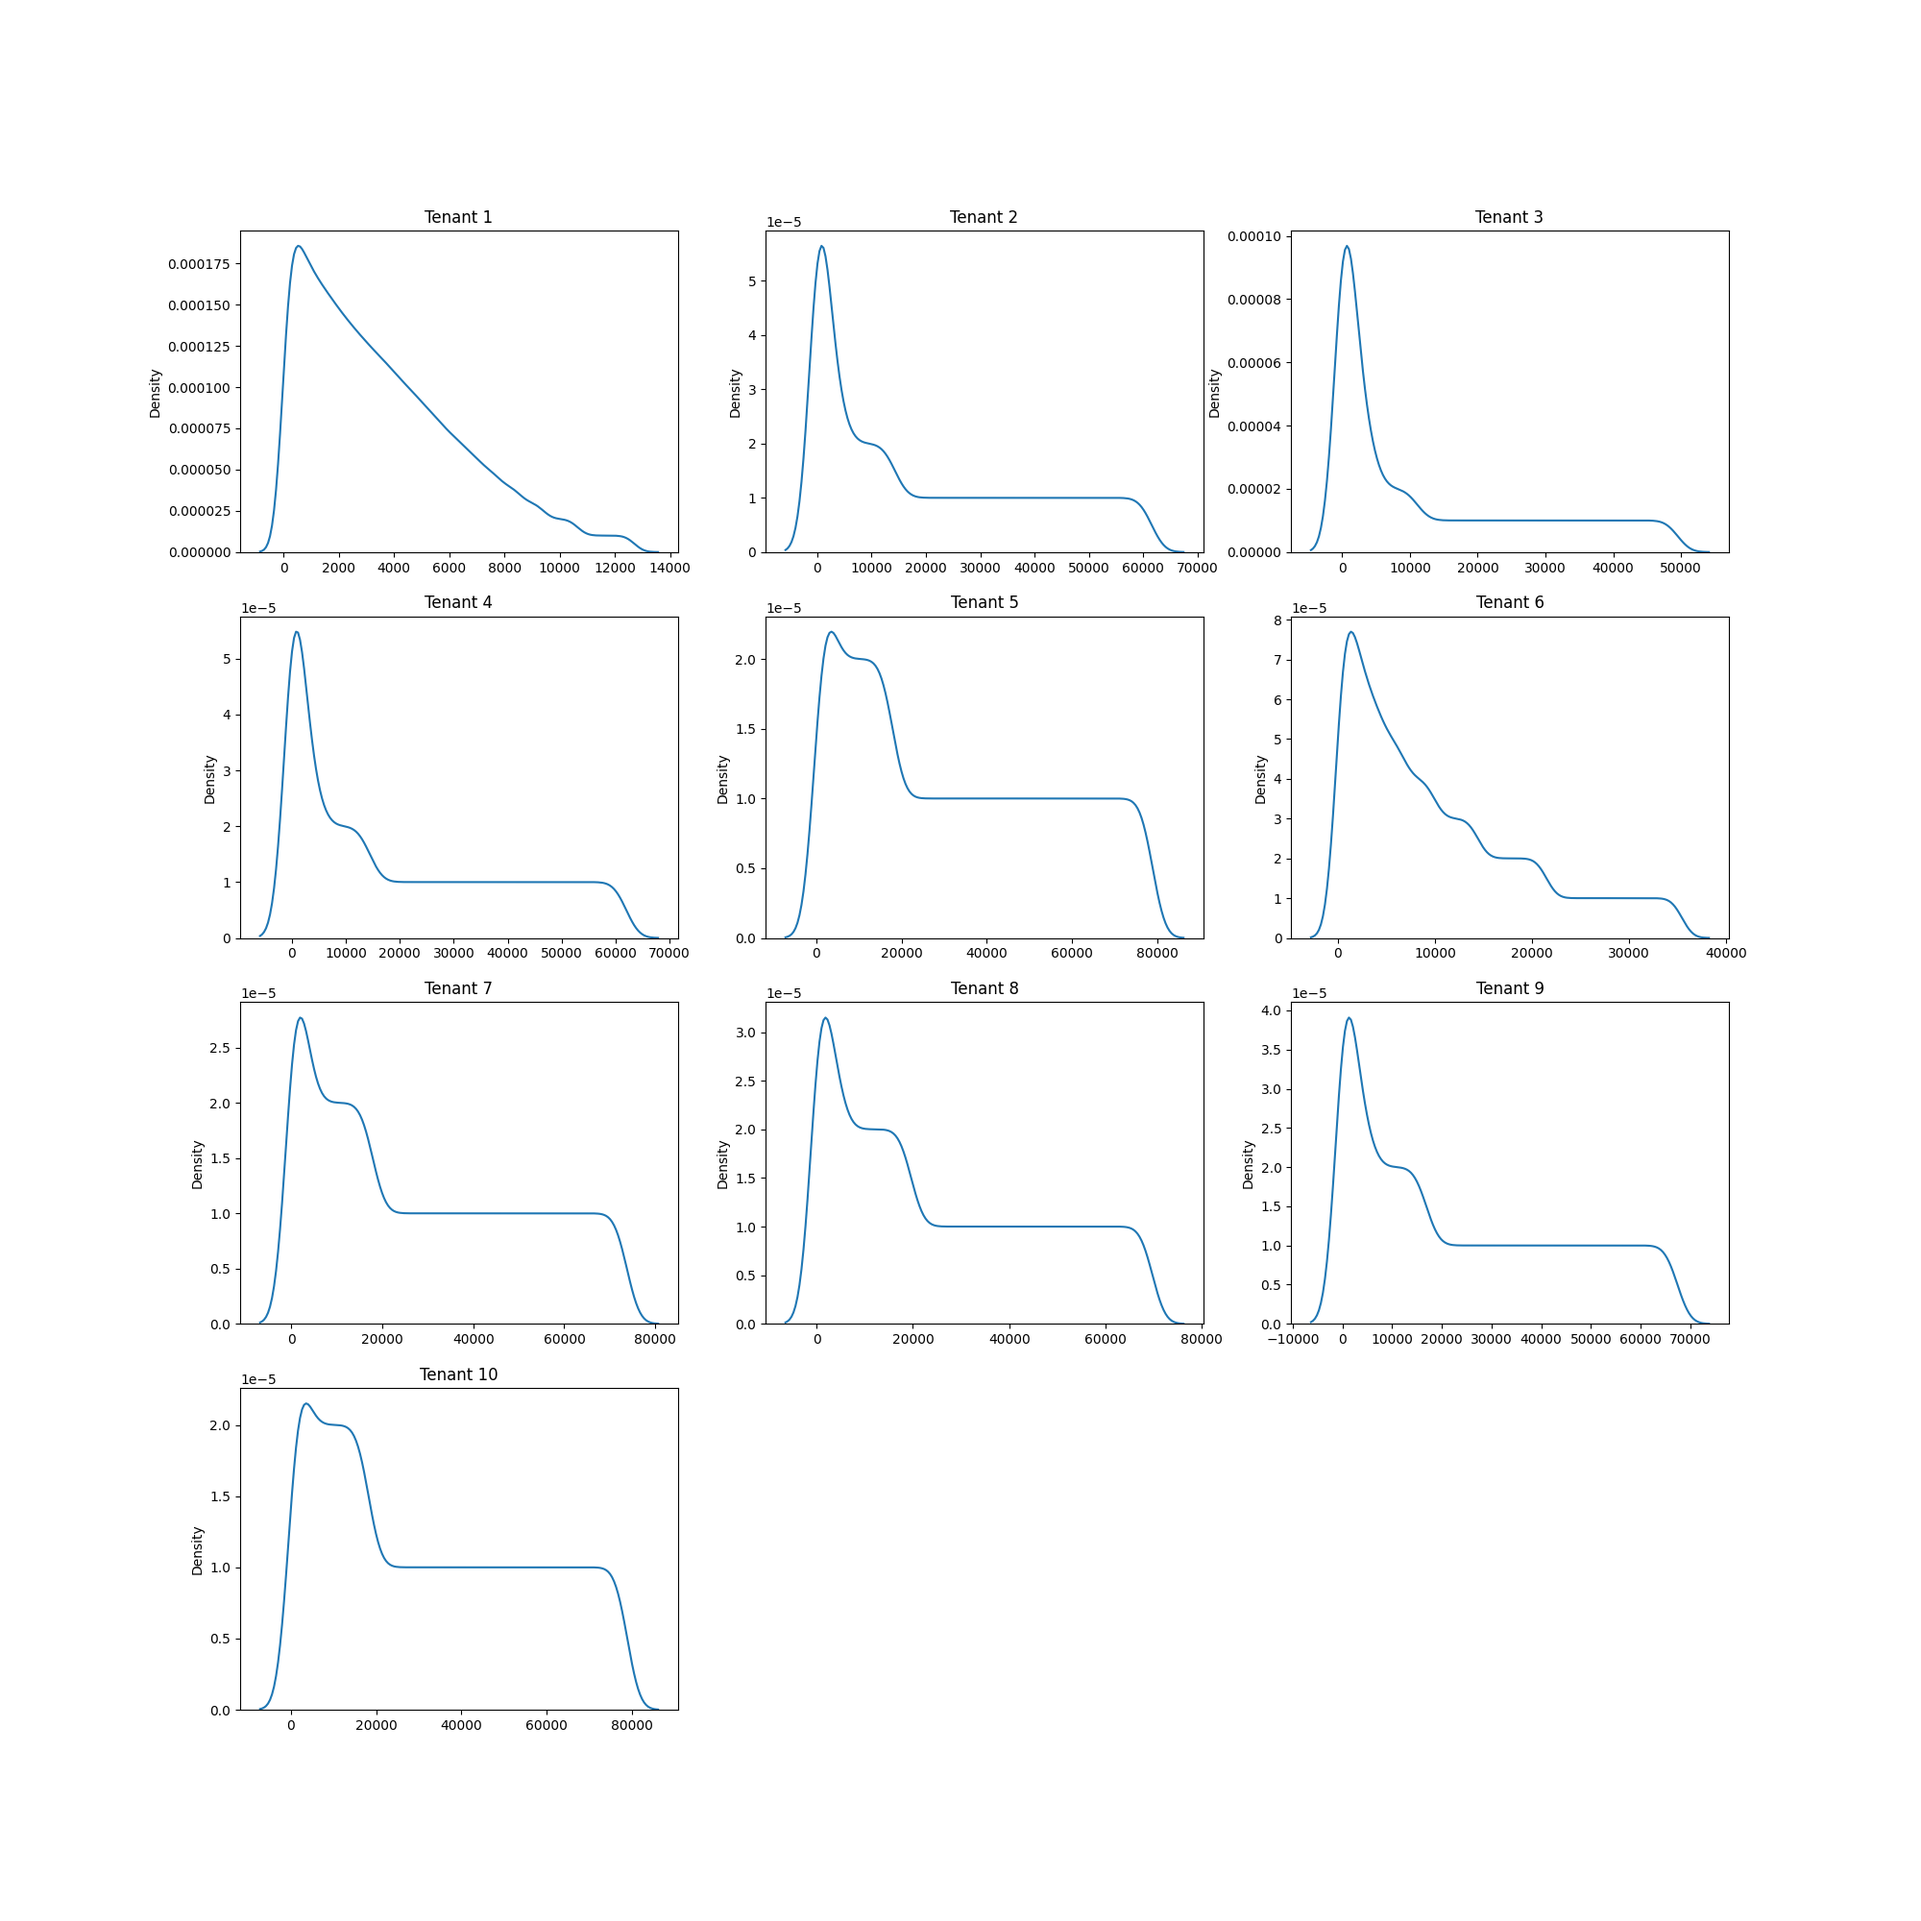
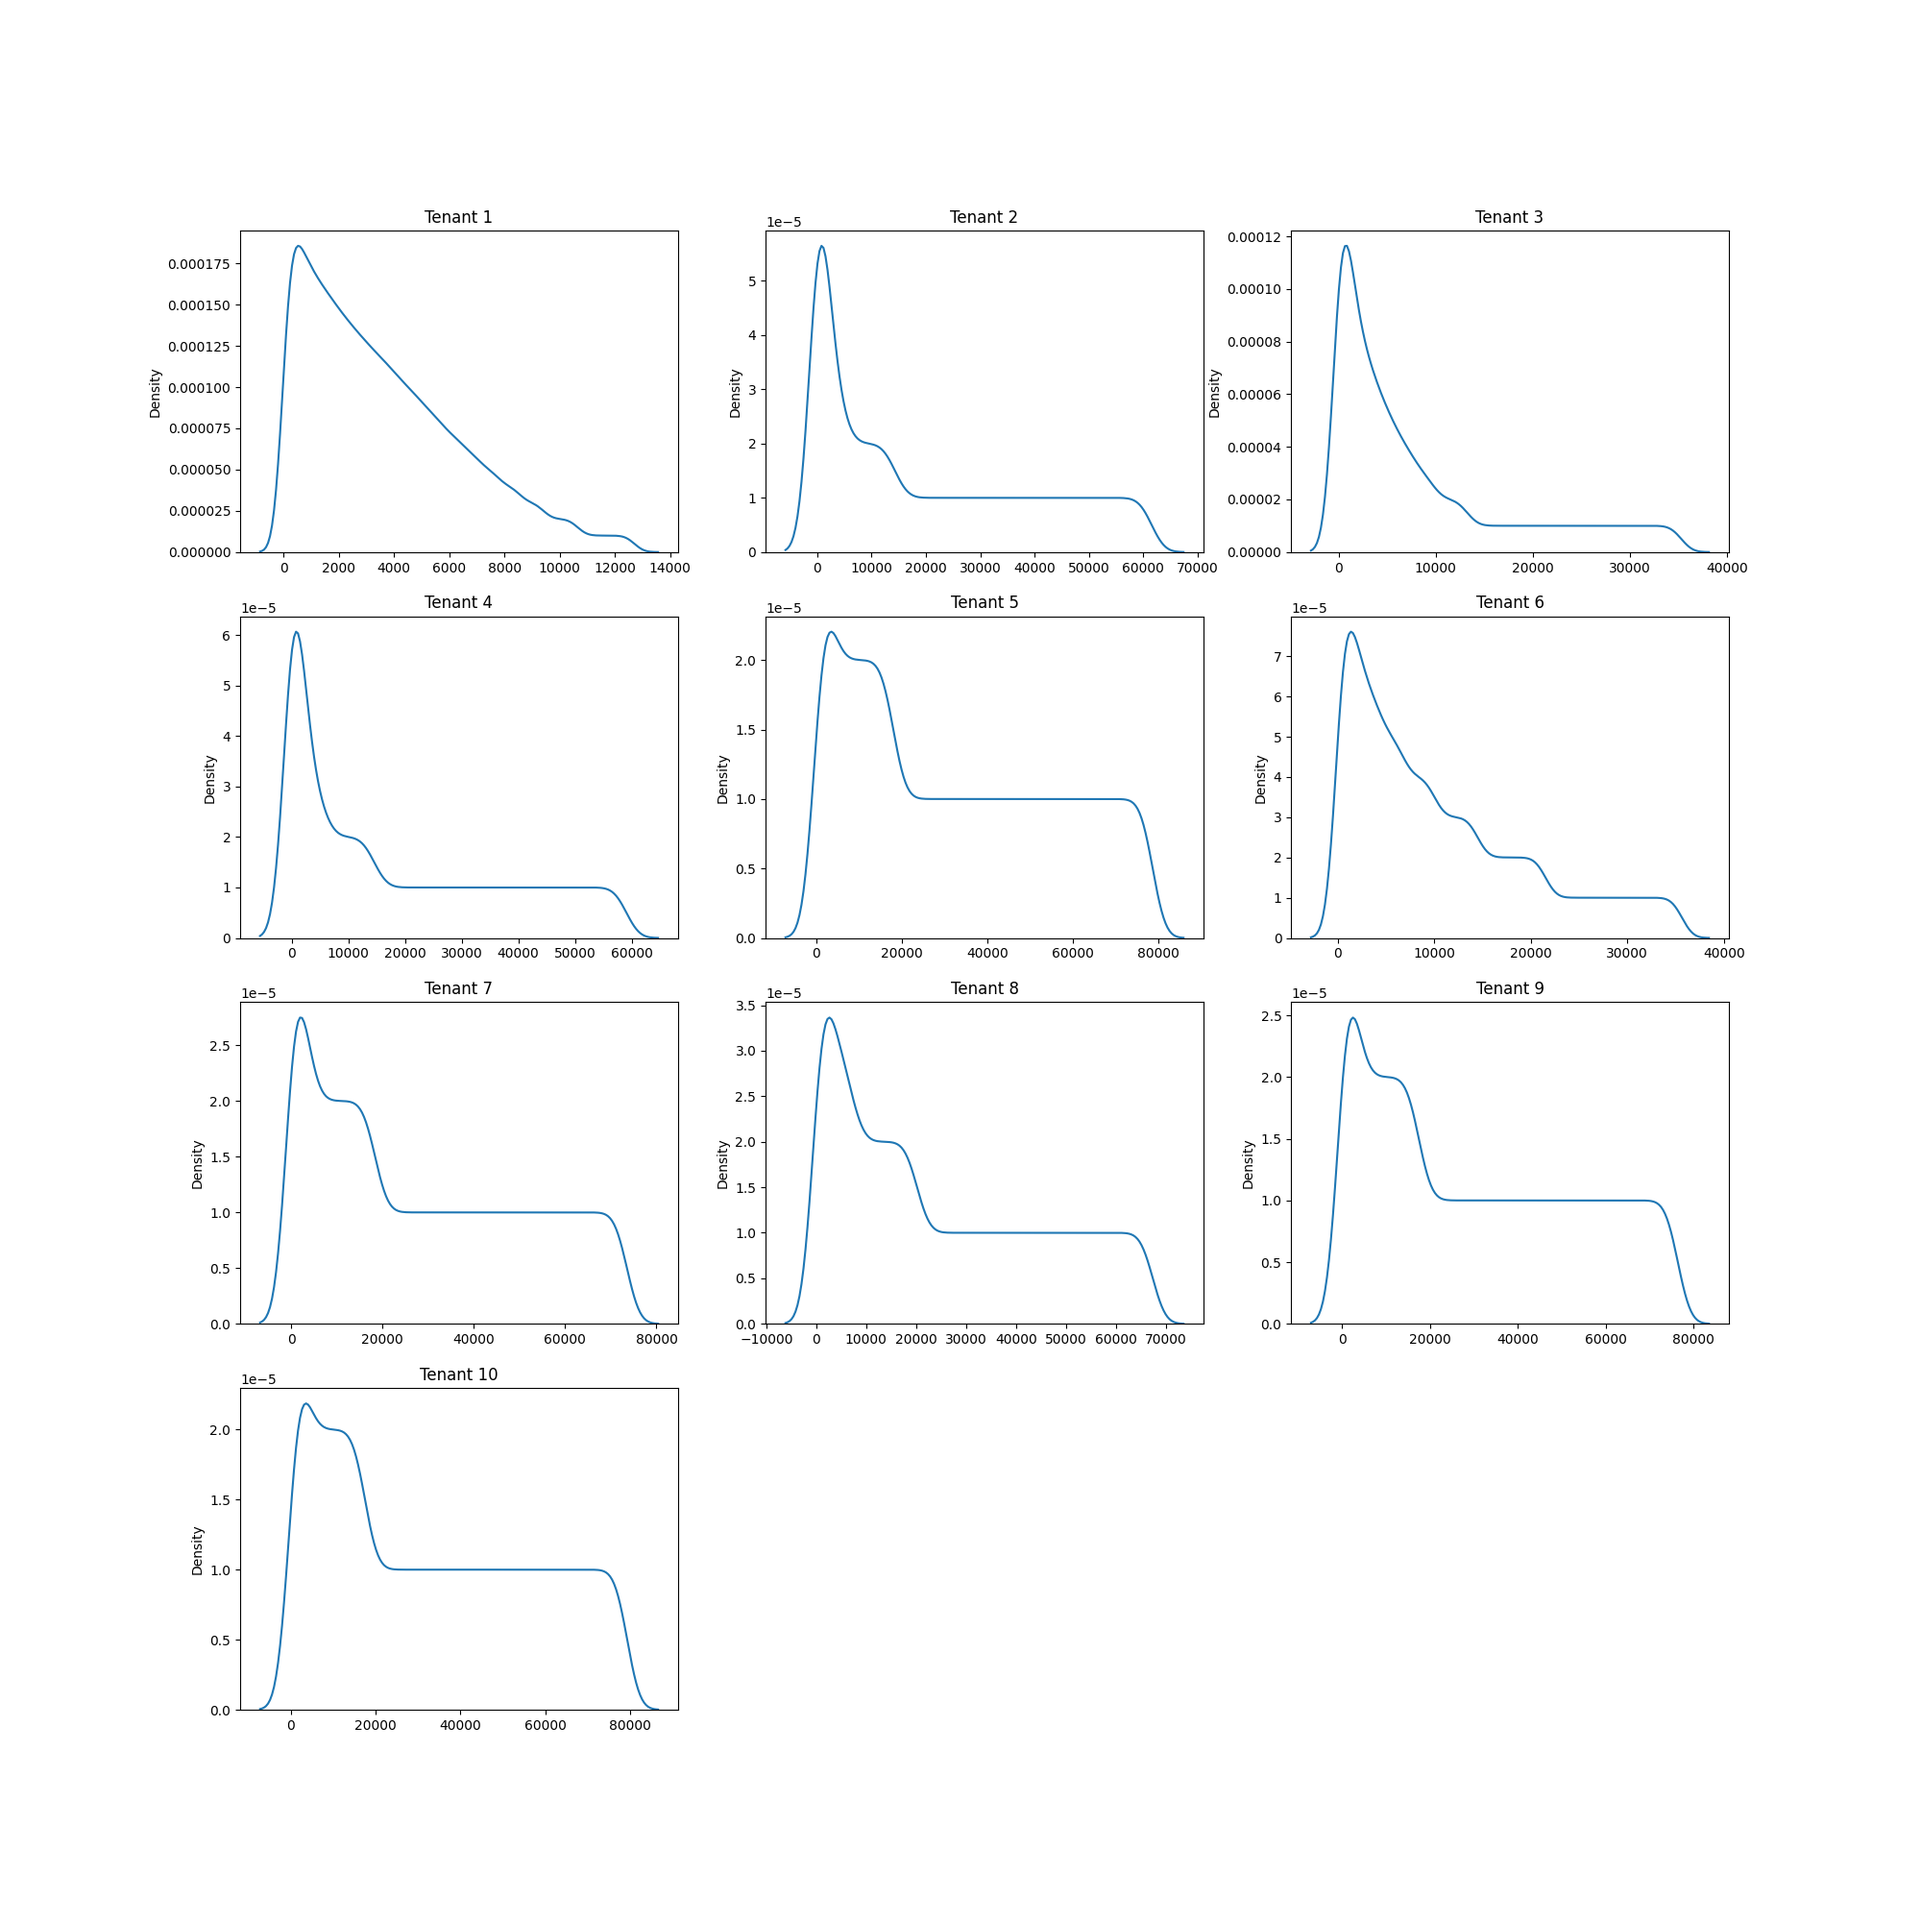
feat/modify-test-7

diff --git a/test_cases/test_case_7/description.py b/test_cases/test_case_7/description.py
@@ -9,17 +9,16 @@ tenants = [
         'minimum_buffer_size': 1,
         'base_buffer_size': 2000,
         'maximum_buffer_size': 20000,
-        'page_accesses_dist': {
+        'page_accesses_dist': [
+          {
             'type': 'normal',
             'variance': 5000,
             'length': 100000,
-        },
+            'interval_type': 'uniform',
+            'interval_max_value': 1,
+          },
+        ],
         'pages_should_be_renumbered': False,
-        'page_accesses_interval_dist': {
-            'type': 'uniform',
-            'length': 100000,
-            'max_value': 1,
-        },
     },
     {
         'tenant_id': 2,
@@ -28,17 +27,16 @@ tenants = [
         'minimum_buffer_size': 1,
         'base_buffer_size': 2000,
         'maximum_buffer_size': 20000,
-        'page_accesses_dist': {
+        'page_accesses_dist': [
+          {
             'type': 'zipfian',
             'parameter': 1.01,
             'length': 100000,
-        },
+            'interval_type': 'uniform',
+            'interval_max_value': 1,
+          },
+        ],
         'pages_should_be_renumbered': False,
-        'page_accesses_interval_dist': {
-            'type': 'uniform',
-            'length': 100000,
-            'max_value': 1,
-        },
     },
     {
         'tenant_id': 3,
@@ -47,17 +45,23 @@ tenants = [
         'minimum_buffer_size': 1,
         'base_buffer_size': 2000,
         'maximum_buffer_size': 20000,
-        'page_accesses_dist': {
+        'page_accesses_dist': [
+          {
             'type': 'pareto',
             'parameter': 0.04,
-            'length': 100000,
-        },
+            'length': 50000,
+            'interval_type': 'uniform',
+            'interval_max_value': 1,
+          },
+          {
+            'type': 'normal',
+            'variance': 5000,
+            'length': 50000,
+            'interval_type': 'uniform',
+            'interval_max_value': 1,
+          },
+        ],
         'pages_should_be_renumbered': False,
-        'page_accesses_interval_dist': {
-            'type': 'uniform',
-            'length': 100000,
-            'max_value': 1,
-        },
     },
     {
         'tenant_id': 4,
@@ -66,17 +70,23 @@ tenants = [
         'minimum_buffer_size': 1,
         'base_buffer_size': 2000,
         'maximum_buffer_size': 20000,
-        'page_accesses_dist': {
+        'page_accesses_dist': [
+          {
             'type': 'zipfian',
             'parameter': 1.005,
-            'length': 100000,
-        },
-        'pages_should_be_renumbered': False,
-        'page_accesses_interval_dist': {
-            'type': 'uniform',
-            'length': 100000,
-            'max_value': 1,
-        },
+            'length': 50000,
+            'interval_type': 'uniform',
+            'interval_max_value': 1,
+          },
+          {
+            'type': 'pareto',
+            'parameter': 0.04,
+            'length': 50000,
+            'interval_type': 'uniform',
+            'interval_max_value': 1,
+          }
+        ],
+        'pages_should_be_renumbered': True,
     },
     {
         'tenant_id': 5,
@@ -85,16 +95,15 @@ tenants = [
         'minimum_buffer_size': 1,
         'base_buffer_size': 2000,
         'maximum_buffer_size': 20000,
-        'page_accesses_dist': {
+        'page_accesses_dist': [
+          {
             'type': 'uniform',
             'length': 100000,
-        },
+            'interval_type': 'uniform',
+            'interval_max_value': 1,
+          },
+        ],
         'pages_should_be_renumbered': False,
-        'page_accesses_interval_dist': {
-            'type': 'uniform',
-            'length': 100000,
-            'max_value': 1,
-        },
     },
     {
         'tenant_id': 6,
@@ -103,18 +112,17 @@ tenants = [
         'minimum_buffer_size': 1,
         'base_buffer_size': 2000,
         'maximum_buffer_size': 20000,
-        'page_accesses_dist': {
+        'page_accesses_dist': [
+          {
             'type': 'normal',
             'variance': 3000,
             'length': 100000,
-        },
+            'interval_type': 'normal',
+            'interval_variance': 4,
+            'interval_max_value': 100,
+          },
+        ],
         'pages_should_be_renumbered': True,
-        'page_accesses_interval_dist': {
-            'type': 'normal',
-            'variance': 4,
-            'max_value': 100,
-            'length': 100000,
-        },
     },
     {
         'tenant_id': 7,
@@ -123,18 +131,17 @@ tenants = [
         'minimum_buffer_size': 1,
         'base_buffer_size': 2000,
         'maximum_buffer_size': 20000,
-        'page_accesses_dist': {
+        'page_accesses_dist': [
+          {
             'type': 'zipfian',
             'parameter': 1.01,
             'length': 100000,
-        },
+            'interval_type': 'zipfian',
+            'interval_parameter': 2,
+            'interval_max_value': 200000,
+          },
+        ],
         'pages_should_be_renumbered': True,
-        'page_accesses_interval_dist': {
-            'type': 'zipfian',
-            'parameter': 2,
-            'max_value': 200000,
-            'length': 100000,
-        },
     },
     {
         'tenant_id': 8,
@@ -143,18 +150,25 @@ tenants = [
         'minimum_buffer_size': 1,
         'base_buffer_size': 2000,
         'maximum_buffer_size': 20000,
-        'page_accesses_dist': {
+        'page_accesses_dist': [
+          {
             'type': 'pareto',
             'parameter': 0.04,
-            'length': 100000,
-        },
+            'length': 50000,
+            'interval_type': 'pareto',
+            'interval_parameter': 1,
+            'interval_max_value': 10000,
+          },
+          {
+            'type': 'normal',
+            'variance': 5000,
+            'length': 50000,
+            'interval_type': 'normal',
+            'interval_variance': 4,
+            'interval_max_value': 100,
+          }
+        ],
         'pages_should_be_renumbered': True,
-        'page_accesses_interval_dist': {
-            'type': 'pareto',
-            'parameter': 1,
-            'max_value': 10000,
-            'length': 100000,
-        },
     },
     {
         'tenant_id': 9,
@@ -163,18 +177,25 @@ tenants = [
         'minimum_buffer_size': 1,
         'base_buffer_size': 2000,
         'maximum_buffer_size': 20000,
-        'page_accesses_dist': {
+        'page_accesses_dist': [
+          {
             'type': 'zipfian',
             'parameter': 1.005,
-            'length': 100000,
-        },
-        'pages_should_be_renumbered': False,
-        'page_accesses_interval_dist': {
-            'type': 'zipfian',
-            'parameter': 2,
-            'max_value': 200000,
-            'length': 100000,
-        },
+            'length': 50000,
+            'interval_type': 'zipfian',
+            'interval_parameter': 2,
+            'interval_max_value': 200000,
+          },
+          {
+            'type': 'pareto',
+            'parameter': 0.04,
+            'length': 50000,
+            'interval_type': 'pareto',
+            'interval_parameter': 1,
+            'interval_max_value': 10000,
+          }
+        ],
+        'pages_should_be_renumbered': True,
     },
     {
         'tenant_id': 10,
@@ -183,16 +204,15 @@ tenants = [
         'minimum_buffer_size': 1,
         'base_buffer_size': 2000,
         'maximum_buffer_size': 20000,
-        'page_accesses_dist': {
+        'page_accesses_dist': [
+          {
             'type': 'uniform',
             'length': 100000,
-        },
+            'interval_type': 'uniform',
+            'interval_max_value': 20,
+          },
+        ],
         'pages_should_be_renumbered': True,
-        'page_accesses_interval_dist': {
-            'type': 'uniform',
-            'length': 100000,
-            'max_value': 20,
-        },
     },
 ]
 
